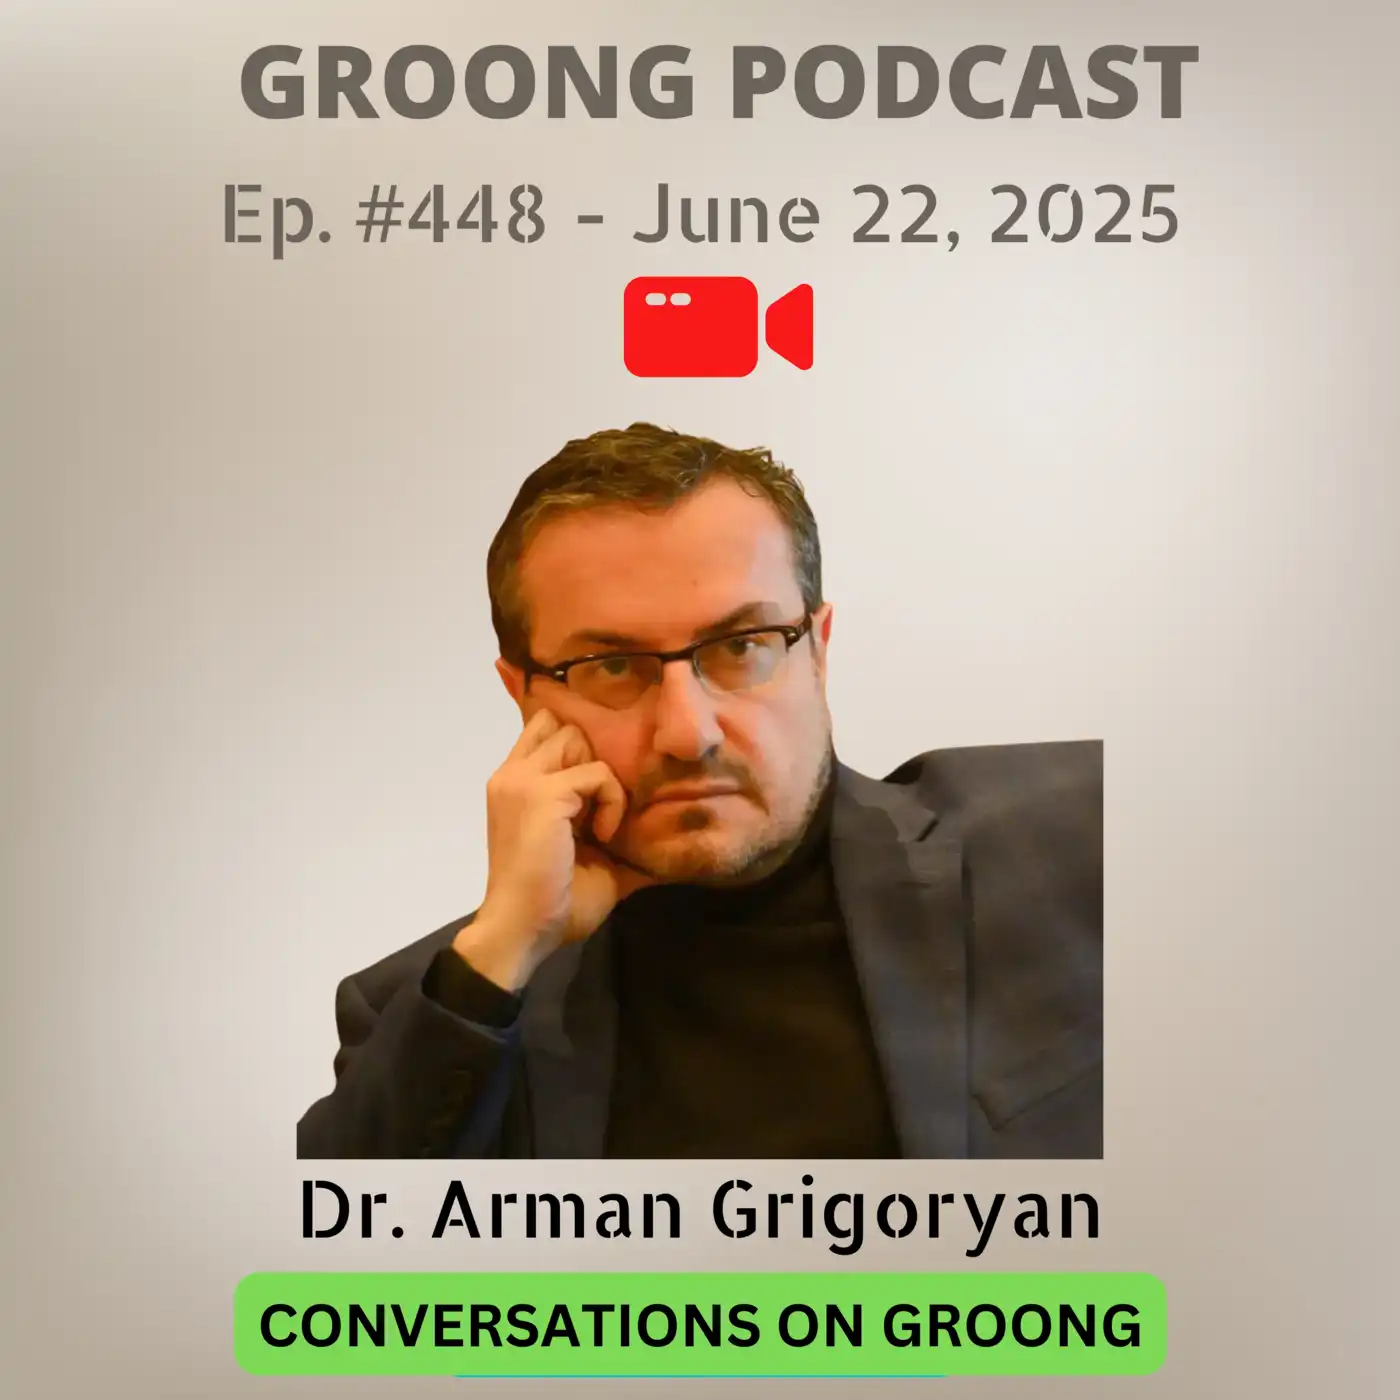
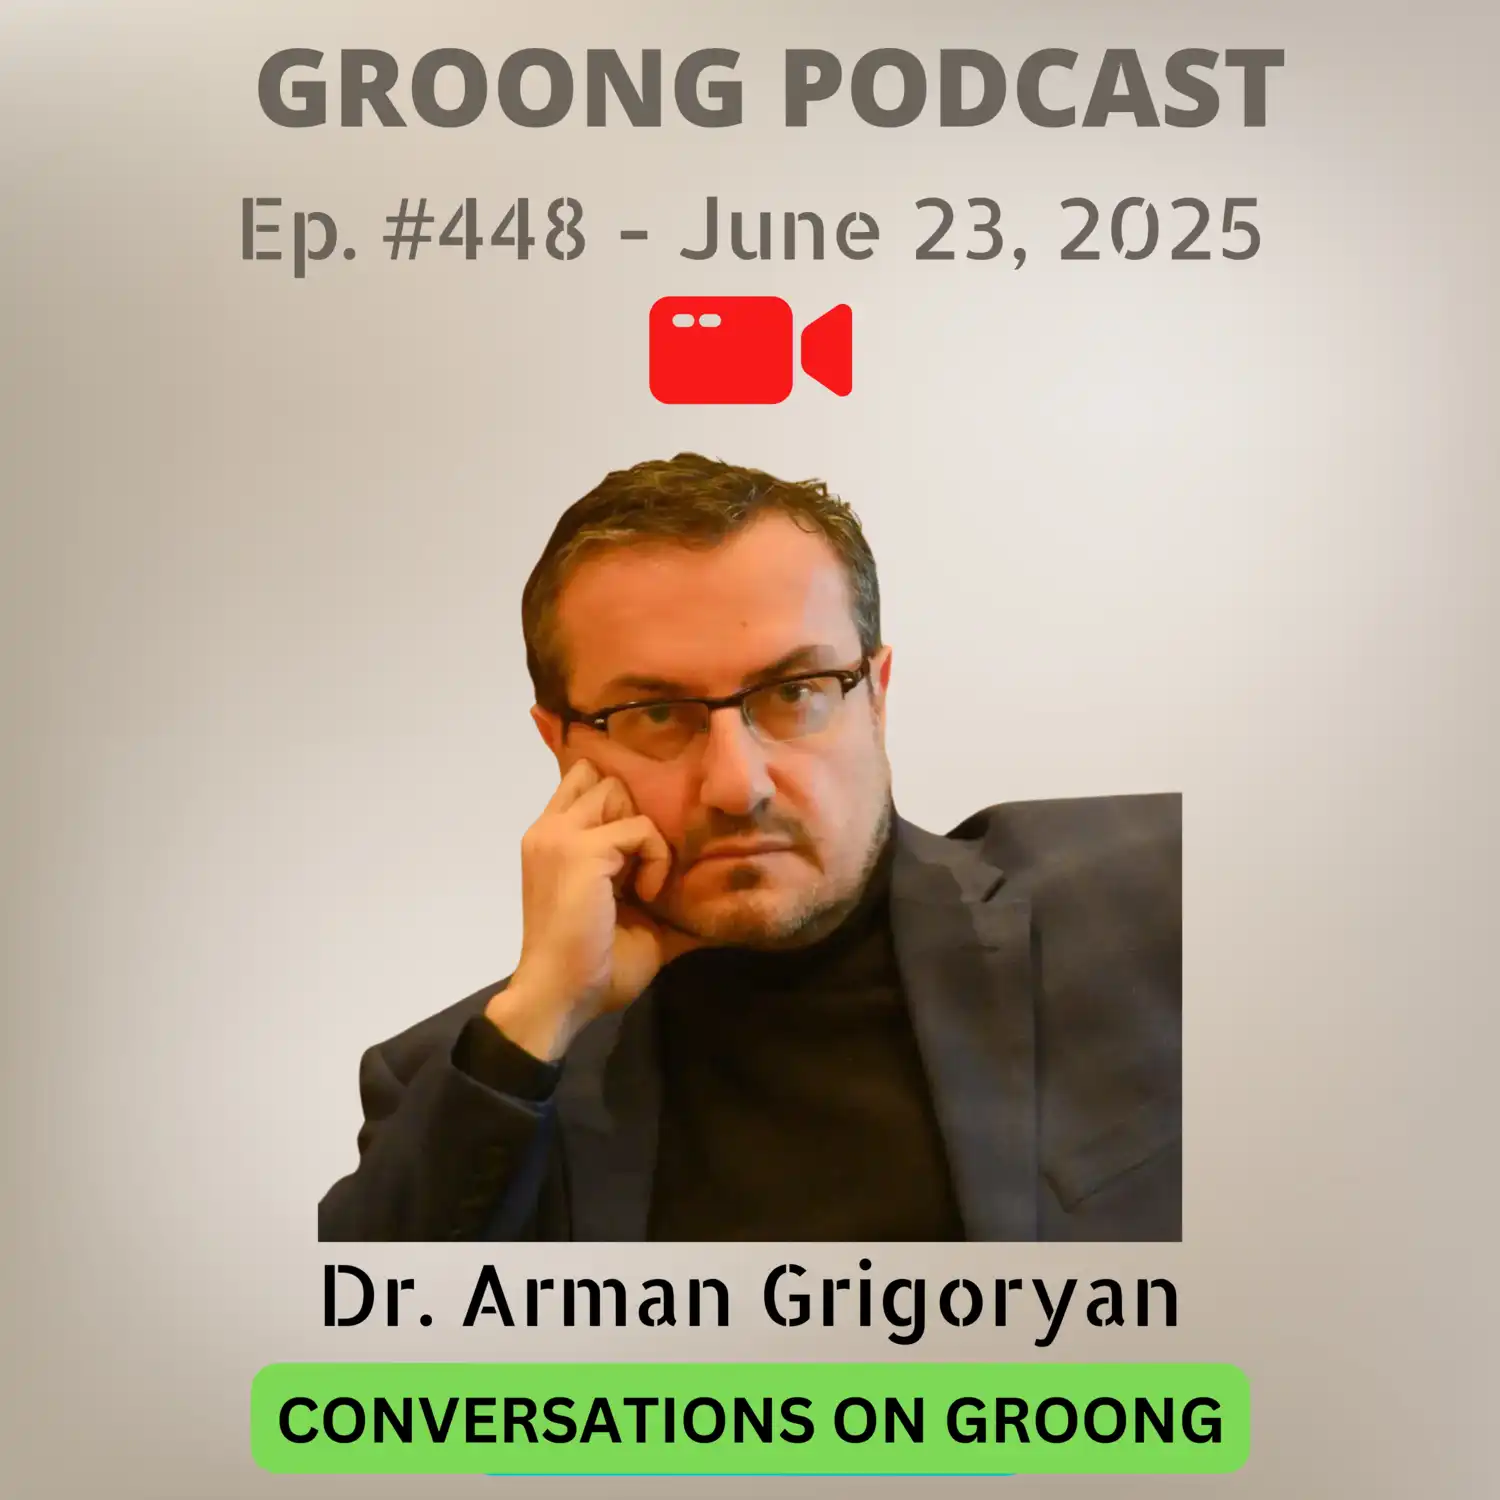
Updating Ep 448

diff --git a/content/episode/448-arman-grigoryan-israel-iran-war-regime-change-nuclear-weapons-armenia-russia-china-geopolitics.md b/content/episode/448-arman-grigoryan-israel-iran-war-regime-change-nuclear-weapons-armenia-russia-china-geopolitics.md
@@ -1,18 +1,17 @@
 +++
-Date = 2025-06-22T00:28:56-07:00
-upcoming = true
+Date = 2025-06-23T09:00:00-07:00
 
-title = "Arman Grigoryan - Iran and Israel at War, Strategic Dangers to Armenia | Ep 448, June 22, 2025"
-subtitle = "Conversations on Groong - Recorded: June 21, 2025"
+title = "Arman Grigoryan - Iran and US vs Iran, Strategic Dangers to Armenia | Ep 448, Jun 23, 2025"
+subtitle = "Conversations on Groong - June 23, 2025"
 
 episode_image = "img/episode/448/thumbnail-448.webp"
 episode_banner = "img/episode/448/banner-448.webp"
 images = ["img/episode/448/banner-448.webp"]
 
-podcast_file     = ""
-podcast_duration = ""
-podcast_bytes    = ""
-youtube = ""
+podcast_file     = "17380215-arman-grigoryan-israel-and-us-vs-iran-strategic-dangers-to-armenia-ep-448-jun-23-2025.mp3"
+podcast_duration = "4410"
+podcast_bytes    = "52958802"
+youtube          = "jKvIM3J57rw"
 
 hosts = ["asbed", "hovik"]
 guests = ["argrigoryan"]
@@ -21,7 +20,7 @@ aliases = ["/448"]
 
 series = ["cog", "video"]
 categories = ["Iran", "Russia", "Armenia", "Israel", "Politics"]
-tags = ["Armenian News", "Arman Grigoryan", "Iran", "Israel", "Nuclear Program", "Nuclear Weapons", "Regime Change", "Palestine", "Gaza", "Gaza Genocide", "Greater Israel", "Syria", "Russia", "China", "USA", "EU", "Europe", "G7", "Canada", "Iraq War", "Osiraq", "Armenia", "Syunik", "Zangezur Corridor", "South Caucasus", "Azerbaijan", "UAV", "Drones", "America", "US-Iran", "Nuclear Talks", "NPT", "Non-Proliferation", "Abraham Accord", "Refugee Flows", "Iranian Shah", "Iranian Separatists", "Kurdish State", "Northern Iranq", "Kurdistan"]
+tags = ["Armenian News", "Arman Grigoryan", "Iran", "Israel", "Nuclear Program", "Nuclear Weapons", "Regime Change", "Palestine", "Gaza", "Gaza Genocide", "Greater Israel", "Syria", "Russia", "China", "USA", "EU", "Europe", "G7", "Iraq War", "Osirak", "Armenia", "Syunik", "Zangezur Corridor", "South Caucasus", "Azerbaijan", "America", "Donald Trump", "Benjamin Netanyahu", "Iran Israel War", "Israel Iran Conflict", "Natanz", "Isfahan", "Fordow", "US-Iran", "Nuclear Talks", "NPT", "Non-Proliferation", "Abraham Accords", "Ayatollah Khamenei", "Xi Jinping", "Vladimir Putin", "Middle East Conflict"]
 
 Description = """
 
@@ -59,11 +58,6 @@ In this conversation, we speak with Dr. Arman Grigoryan about the rapidly escala
 ### Referenced Articles & Sources
 - [Jerusalem Post: “Forge a Middle East coalition for Iran’s partition”](https://www.jpost.com/opinion/article-858111)
 - [Iran-China diplomatic statement (X)](https://x.com/IRIMFA_EN/status/1933974812785016842?t=ycM7zTeZDM3VP15AxsZjqg&s=19)
-- [Telegram: Alexander Dugin post](https://t.me/geopolitics_live/51449)
-
-
-
-
 
 # Wrap-up
 
